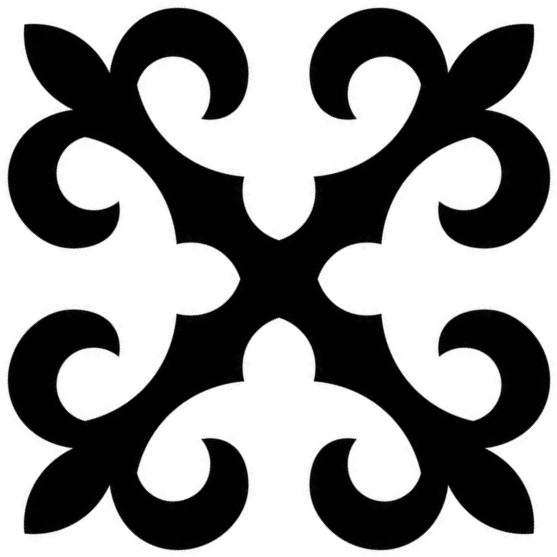
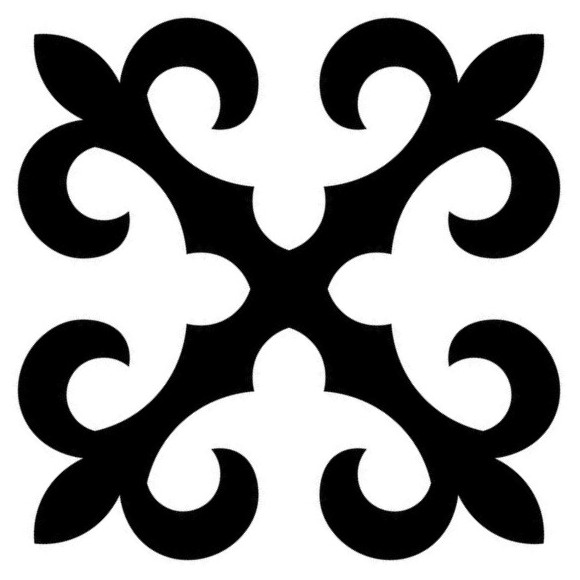
i like it

diff --git a/config.py b/config.py
@@ -1,7 +1,7 @@
 """Configuration constants for the Kyrgyz ornamental pattern generator."""
 
 NUM_COLORS = 4
-MAX_DEPTH = 5
-HOMOGENEITY_THRESHOLD = 0.75
+MAX_DEPTH = 10
+HOMOGENEITY_THRESHOLD = 0.90
 ORNAMENT_FILENAME = "ornam.jpg"
-BACKGROUND_COLOR = (255, 255, 255)
+BACKGROUND_COLOR = (181, 217, 253)
